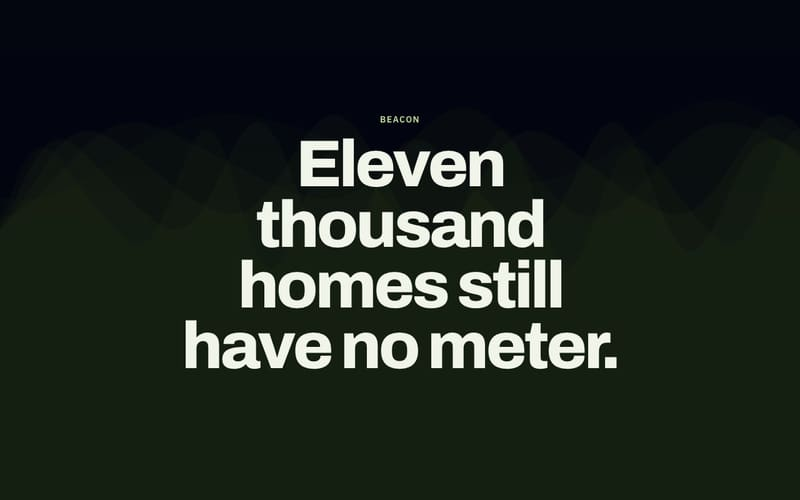
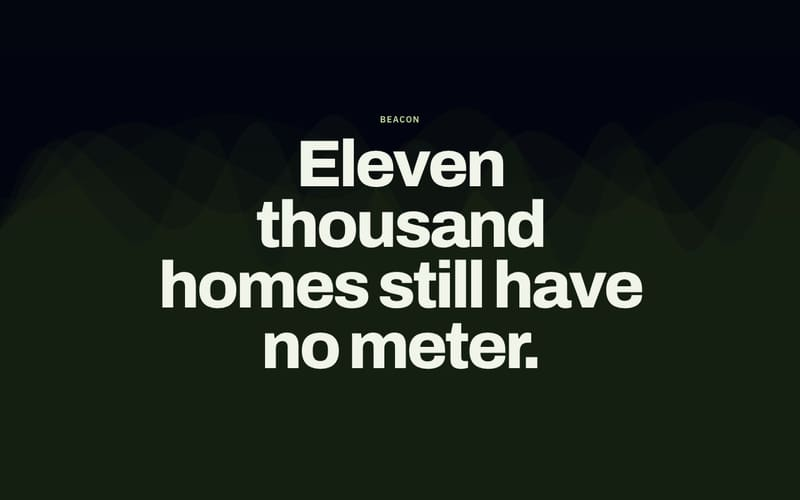
Give the copy the column width its layout asks for (#390)
* Give the copy the column width its layout asks for

The copy box was border-box in the preview, the export and the plugin
engine, so a layout's side padding came out of its max width. The left
layout's 620px left 364px for the copy at 1920 wide, and 39 headings
across 16 templates ran past their box; a mask reveal clips at that box,
so some were cut off. The box is now content-box, and maxWidth is the
width of the copy.

* Recapture the template stills with the full-width copy column

Changed region(s): [[0.1875, 0.51, 0.8125, 0.75]]

diff --git a/src/app/api/export-site/route.ts b/src/app/api/export-site/route.ts
@@ -267,7 +267,7 @@ export async function POST(req: NextRequest) {
       return `
     <section id="${sectionAnchor(sectionIndex)}" class="scroll-section" style="height:${trackHeight(s)}px; position:relative; z-index:10;">
       <div class="section-sticky" style="position:sticky; top:0; height:100vh; display:flex; align-items:${safeCss(s.align || L.align)}; justify-content:${safeCss(s.justify || L.justify)}; overflow:hidden;">
-        <div class="section-content" data-reveal="${reveal}" style="${scrim > 0 ? `background:radial-gradient(ellipse 120% 100% at 50% 50%, rgba(0,0,0,${scrim}) 0%, rgba(0,0,0,${(scrim * 0.72).toFixed(3)}) 45%, rgba(0,0,0,0) 78%); ` : ""}text-align:${safeCss(s.textAlign || L.textAlign)}; padding:${L.pad}; max-width:${L.maxWidth}px; transition:opacity 0.6s cubic-bezier(0.25,0.46,0.45,0.94),transform 0.6s cubic-bezier(0.25,0.46,0.45,0.94),clip-path 0.7s cubic-bezier(0.25,0.46,0.45,0.94);">
+        <div class="section-content" data-reveal="${reveal}" style="${scrim > 0 ? `background:radial-gradient(ellipse 120% 100% at 50% 50%, rgba(0,0,0,${scrim}) 0%, rgba(0,0,0,${(scrim * 0.72).toFixed(3)}) 45%, rgba(0,0,0,0) 78%); ` : ""}text-align:${safeCss(s.textAlign || L.textAlign)}; padding:${L.pad}; max-width:${L.maxWidth}px; box-sizing:content-box; transition:opacity 0.6s cubic-bezier(0.25,0.46,0.45,0.94),transform 0.6s cubic-bezier(0.25,0.46,0.45,0.94),clip-path 0.7s cubic-bezier(0.25,0.46,0.45,0.94);">
           ${imgSrc ? `<img src="${esc(imgSrc)}" alt="${esc(s.imageAlt || "")}" style="display:block; max-width:min(100%, ${imgWidth}px); height:auto; margin:${stack};" />` : ""}
           ${s.eyebrow ? `<p class="eyebrow" style="font-size:0.875rem; font-weight:600; letter-spacing:0.1em; text-transform:uppercase; color:${safeCss(s.accentColor || "var(--sc-accent-text, #ede9fe)")}; margin-bottom:0.75rem;">${esc(s.eyebrow)}</p>` : ""}
           ${s.heading ? (s.kind === "statement"

diff --git a/src/__tests__/displayParity.test.ts b/src/__tests__/displayParity.test.ts
@@ -69,4 +69,11 @@ describe("the display treatment has one definition", () => {
     for (const [name, s] of Object.entries(TYPE_SCALES)) expect(BUILD_SITE).toContain(`${name}: { heading: "${s.heading}"`);
     expect(ENGINE_CSS).toMatch(/\.sc-statement \{\s*font-size: clamp\(2\.75rem, min\(\d+(\.\d+)?vw, \d+(\.\d+)?vh\), 9rem\);/);
   });
+
+  it("gives the copy a column as wide as the layout's max width in every renderer", () => {
+    // Under border-box the left layout's 8rem side padding came out of its 620px, so at
+    // 1920 wide the copy had 364px and 39 headings across 16 templates ran past their box.
+    expect(PREVIEW).toContain('maxWidth: L.maxWidth, boxSizing: "content-box"');
+    for (const src of [ROUTE, BUILD_SITE]) expect(src).toContain("max-width:${L.maxWidth}px; box-sizing:content-box;");
+  });
 });

diff --git a/src/components/SiteRenderer.tsx b/src/components/SiteRenderer.tsx
@@ -257,7 +257,7 @@ export default function SiteRenderer({
                   className="pointer-events-auto sc-reveal"
                   data-reveal={s.reveal ?? "rise"}
                   style={{
-                    textAlign: align, padding: L.pad, maxWidth: L.maxWidth,
+                    textAlign: align, padding: L.pad, maxWidth: L.maxWidth, boxSizing: "content-box",
                     ...(scrim > 0 ? { background: `radial-gradient(ellipse 120% 100% at 50% 50%, rgba(0,0,0,${scrim}) 0%, rgba(0,0,0,${(scrim * 0.72).toFixed(3)}) 45%, rgba(0,0,0,0) 78%)` } : {}),
                   }}
                 >

diff --git a/src/lib/layoutStyles.ts b/src/lib/layoutStyles.ts
@@ -4,6 +4,7 @@ export interface LayoutStyle {
   align: string;
   justify: string;
   textAlign: "left" | "center" | "right";
+  /** Width of the copy itself. The renderers size the box content-box, so pad sits outside it. */
   maxWidth: number;
   pad: string;
 }
